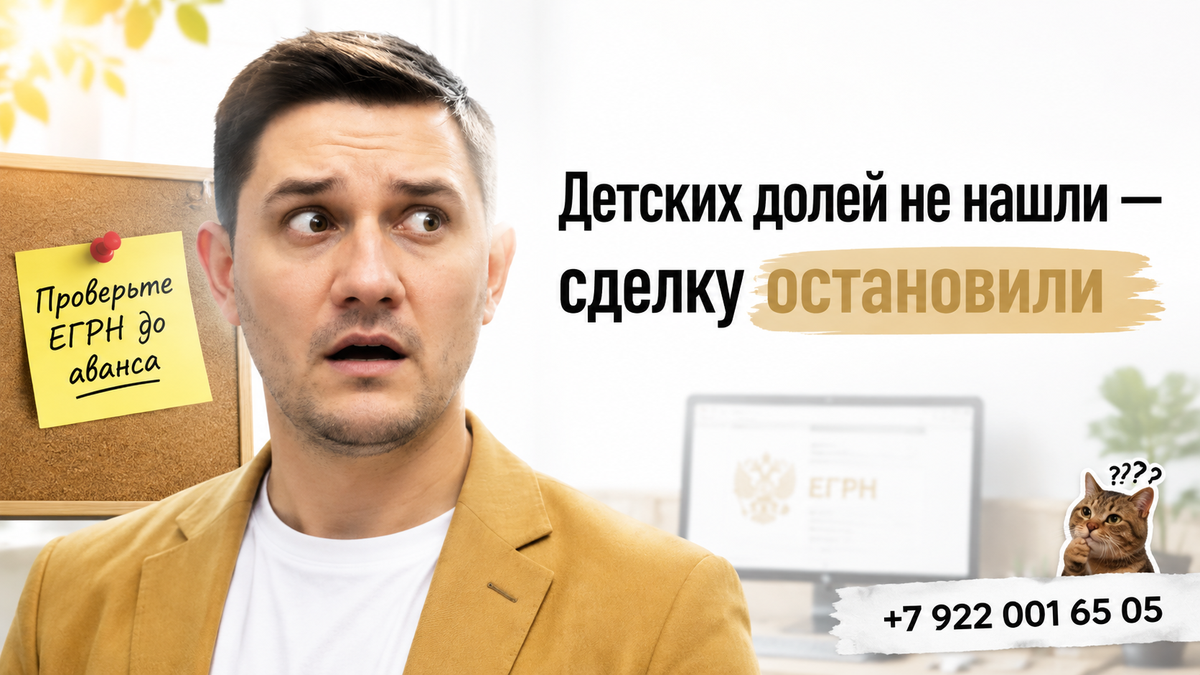
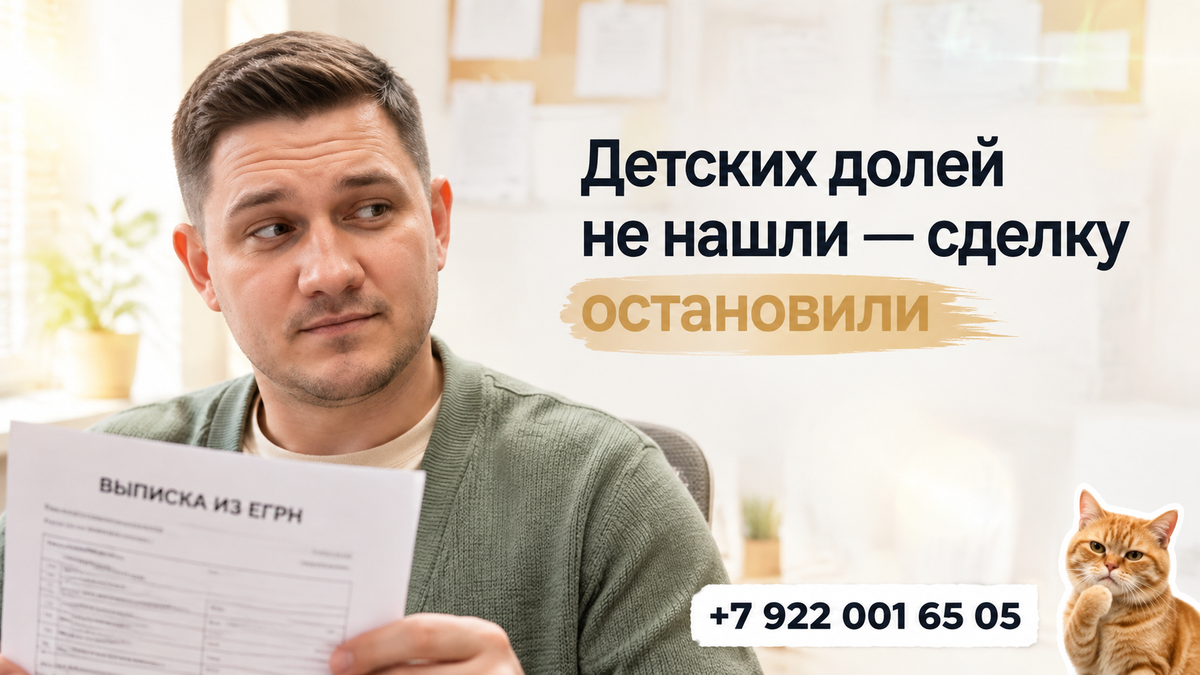
B18 cover regen: identity PASS, Cover-QA PASS, published WP 9352

diff --git a/shared/published-articles.md b/shared/published-articles.md
@@ -17,3 +17,4 @@ Publish / Indexer обновляют по мере выхода.
 | 2026-08-28 | B11 | v-tyumeni-kupili-kvartiru-s-otkrytoj-kuhnej-rosreestr-otkazal-v-registracii | /blog/vtorichka-i-riski/v-tyumeni-kupili-kvartiru-s-otkrytoj-kuhnej-rosreestr-otkazal-v-registracii/ | published |
 | 2026-08-28 | B12 | klyuchi-ot-novostrojki-v-tyumeni-perenesli-na-god-dengi-na-eskrou-zamorozili | /blog/vtorichka-i-riski/klyuchi-ot-novostrojki-v-tyumeni-perenesli-na-god-dengi-na-eskrou-zamorozili/ | published |
 | 2026-08-30 | B14 | v-tyumeni-prodavec-pokazal-spravku-o-zakrytii-ipoteki-bank-vse-esche-derzhal-zal | /blog/vtorichka-i-riski/v-tyumeni-prodavec-pokazal-spravku-o-zakrytii-ipoteki-bank-vse-esche-derzhal-zal/ | published |
+| 2026-08-30 | B18 | v-tyumeni-kupili-kvartiru-s-matkapitalom-detskih-dolej-v-sobstvennosti-ne-okazal | /blog/vtorichka-i-riski/v-tyumeni-kupili-kvartiru-s-matkapitalom-detskih-dolej-v-sobstvennosti-ne-okazal/ | published |
